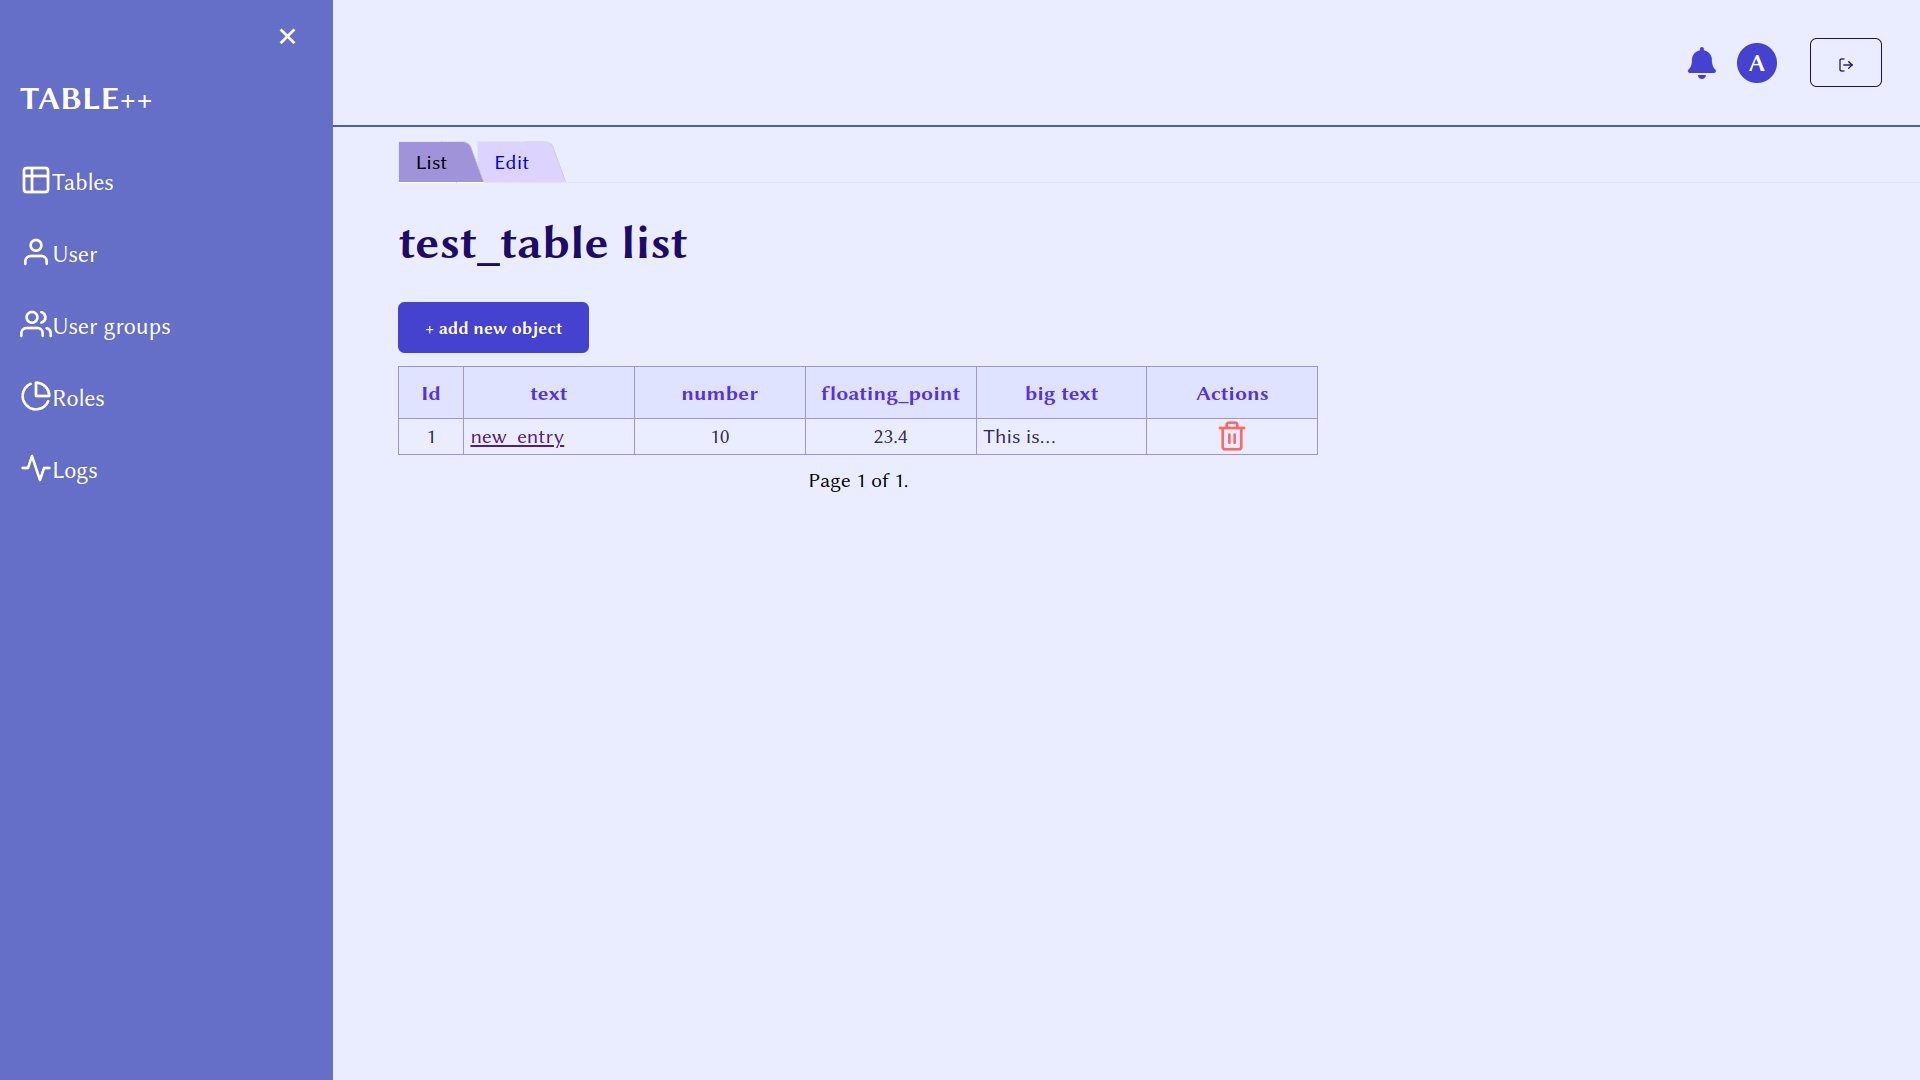
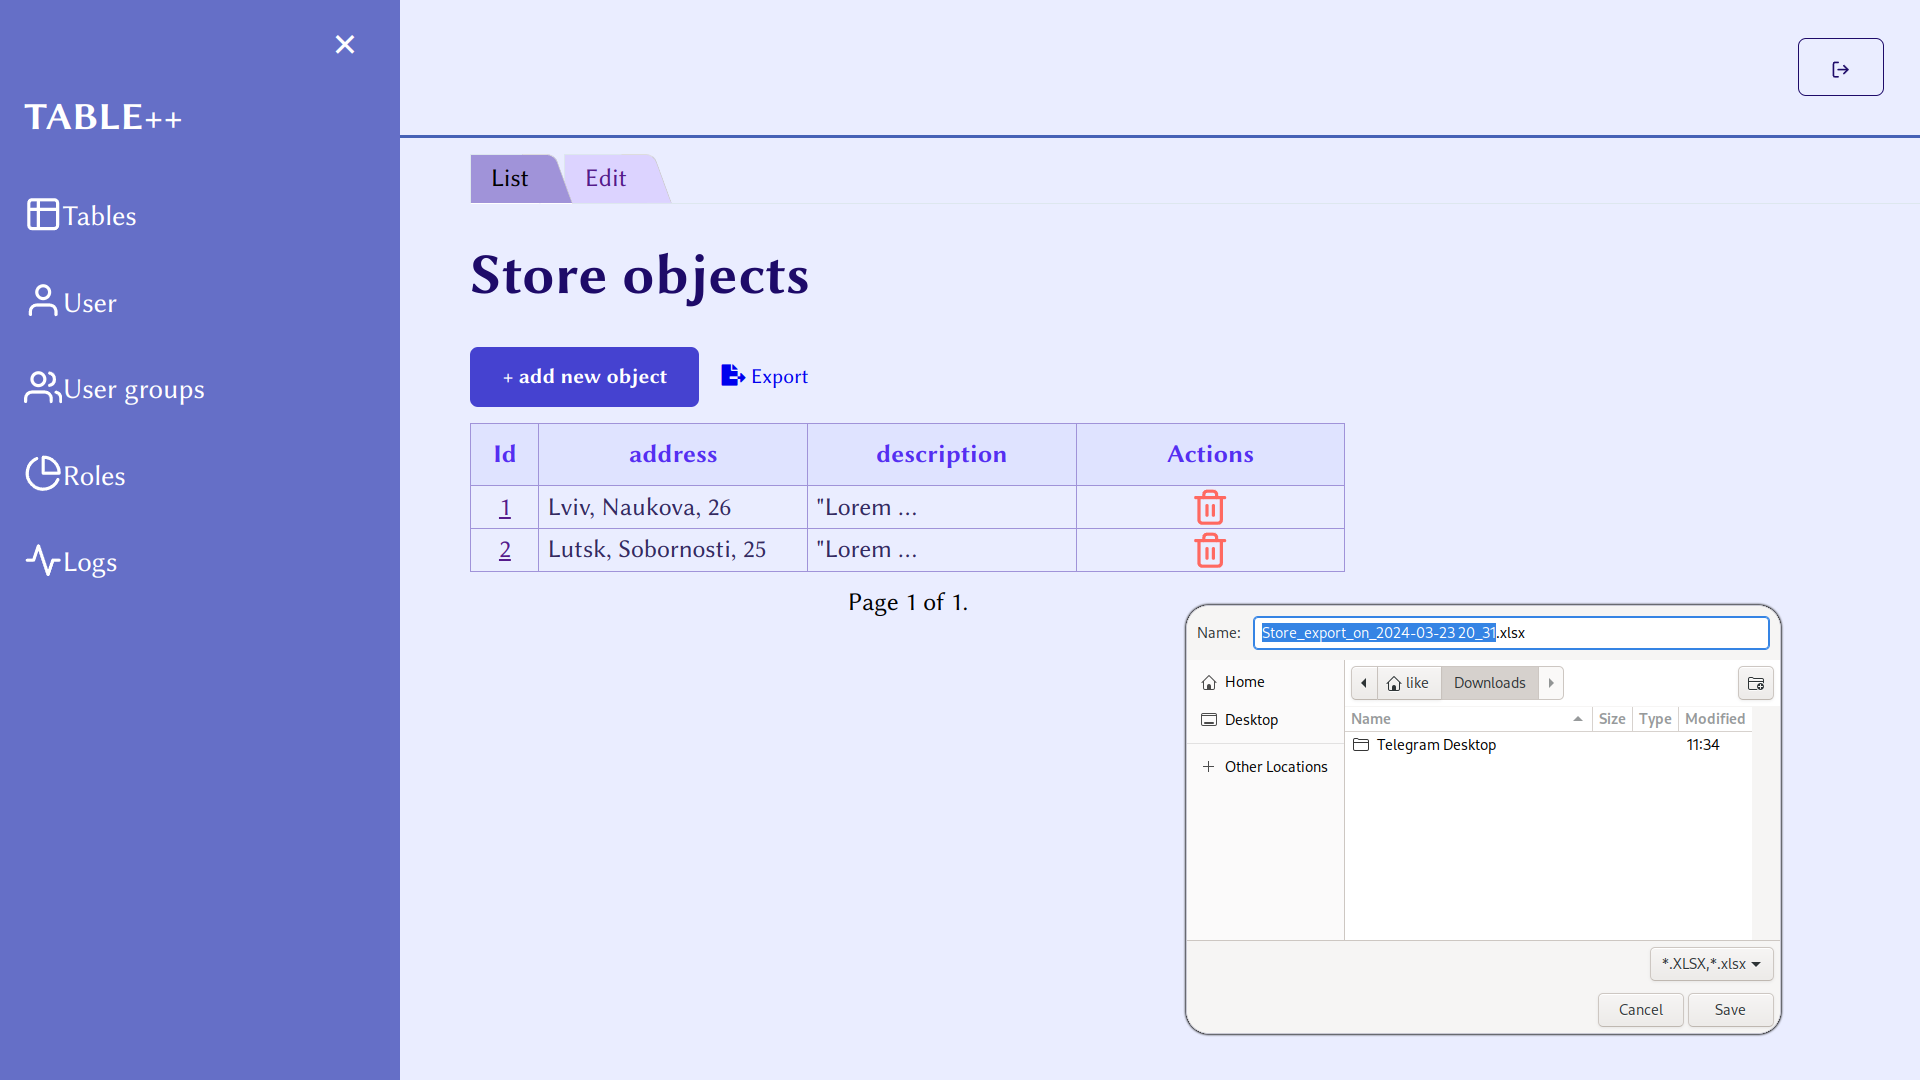
readme

diff --git a/README.md b/README.md
@@ -59,12 +59,12 @@
 ![plot](./assets/create_table.png)
 Як ми бачимо, ми не можемо виходити за вказані обмеження.
 ![plot](./assets/add_object_err.png)
-Таким чином відображається список входжень
+Таким чином відображається список входжень. Також є можливість експортувати дані в excel таблицю
 ![plot](./assets/objects_list.png)
 
-Також ми можемо редагувати інформацію про кожну таблицю чи її об'єкти.
+Ми можемо редагувати інформацію про кожну таблицю чи її об'єкти.
 
 ### Logs
-Також реалізовано логування дій, як можемо бачити, створення нашого нового об'єкту було додано в таблицю логів
+Реалізовано логування дій, як можемо бачити, створення нашого нового об'єкту було додано в таблицю логів
 ![plot](./assets/logs.png)
 
